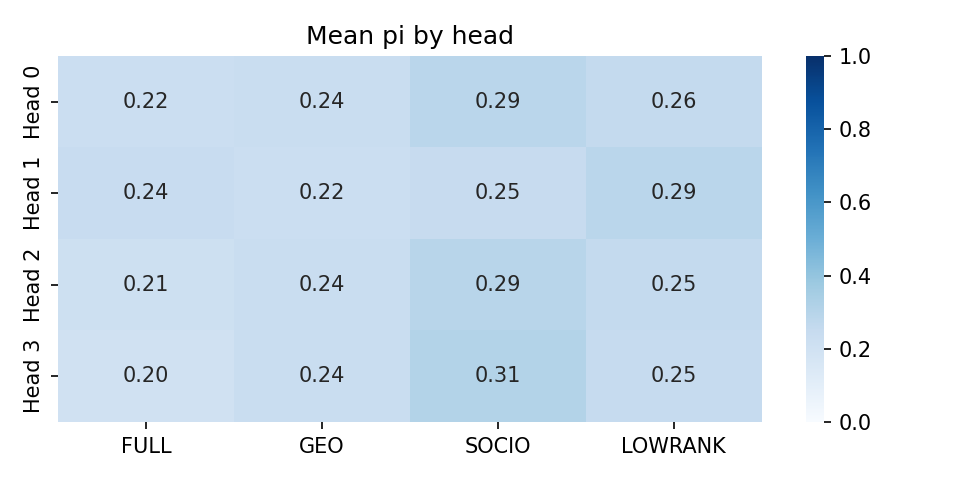
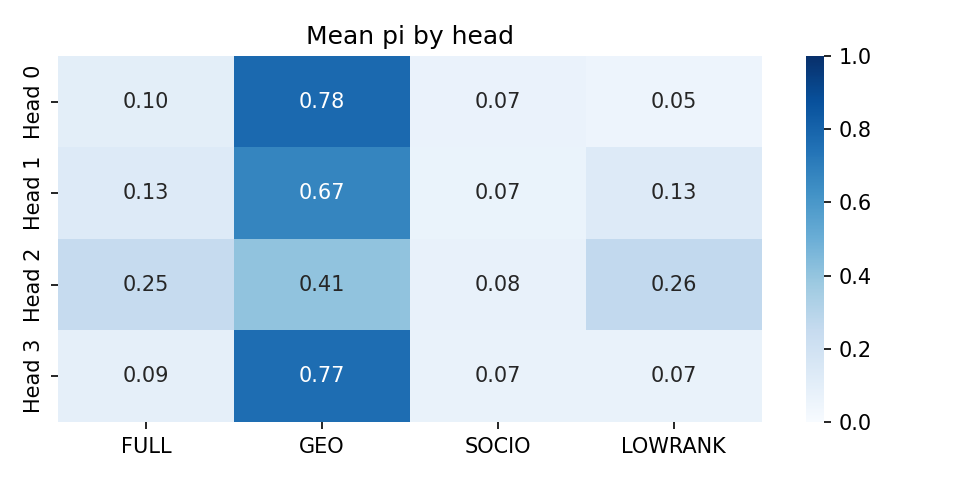
v4 step-4: California split-track results
B1_HGBR (ref):   RMSE=0.4433
G2_ref   (ref):   RMSE=0.4515
G10_ref  (ref):   RMSE=0.5023 (v3 reproduce)

CA v4 variants:
  CA_v4a  (no label ctx):             RMSE=0.4719  <-- best v4
  CA_v4b  (+ y-norm label ctx):       RMSE=0.5696  WORSE
  CA_v4c  (+ LayerNorm):              RMSE=0.5328  WORSE
  CA_v4d  (+ teacher-lite):           RMSE=0.5419  WORSE
  CA_v4e  (+ patience=40 + cosine):   RMSE=0.5316  WORSE

Key finding: label context HURTS California even when normalised.
CA_v4a best v4 but still 2.0% behind G2_ref. GEO dominance persists.

Gates: C1 PASS, C2 PASS, C3 PARTIAL, S1 PARTIAL,
       R1 PASS, R2 PARTIAL, R3 PASS, R4 PASS

Artifacts: california/{artifacts,reports,figures,logs}/

diff --git a/experiments/mq_gora_v4/california/reports/final_report.md b/experiments/mq_gora_v4/california/reports/final_report.md
@@ -1,18 +1,18 @@
 # Final Report: california
-*2026-03-07*
+*2026-03-08*
 
 ## Executive Summary
-Run mode: `smoke`.
-Best California v4 variant: `CA_v4d` with RMSE `1.2790`.
+Run mode: `full`.
+Best California v4 variant: `CA_v4a` with RMSE `0.4719`.
 Saved v3 G2 reference RMSE: `0.4546`; saved bad rich-context band best: `0.5099`.
 Interpretation stays skeptical: the California question is whether regression-safe routing recovers toward G2, not whether extra components merely move numbers around.
 
 ## Integrity Confirmation
-| model   | metric   |   current |   reference |    delta | status     |
-|:--------|:---------|----------:|------------:|---------:|:-----------|
-| B1_HGBR | rmse     |  0.628481 |    0.443292 | 0.185189 | SMOKE_ONLY |
-| G2_ref  | rmse     |  2.31796  |    0.454643 | 1.86331  | SMOKE_ONLY |
-| G10_ref | rmse     |  2.32308  |    0.520906 | 1.80218  | SMOKE_ONLY |
+| model   | metric   |   current |   reference |      delta | status   |
+|:--------|:---------|----------:|------------:|-----------:|:---------|
+| B1_HGBR | rmse     |  0.443292 |    0.443292 |  0         | MATCH    |
+| G2_ref  | rmse     |  0.451459 |    0.454643 | -0.0031838 | MATCH    |
+| G10_ref | rmse     |  0.502292 |    0.520906 | -0.018614  | DRIFT    |
 
 ## What Changed From v3
 - California v4 removes raw label-context dependence from the primary baseline path.
@@ -23,50 +23,50 @@ Interpretation stays skeptical: the California question is whether regression-sa
 ## Root-Cause Audit
 | root_cause                                               | status   | evidence                                                                                                                                               |
 |:---------------------------------------------------------|:---------|:-------------------------------------------------------------------------------------------------------------------------------------------------------|
-| RC1 — Router Information Starvation                      | PARTIAL  | CA_v4d: routing_entropy active=True, beta_std active=False                                                                                             |
-| RC2 — No View-Discriminative Embedding                   | PASS     | view similarity off-diagonal min=-0.190                                                                                                                |
-| RC3 — Meta-Learner Blind to Neighbourhood Content        | PASS     | beta regime span=0.047, dominant views=2                                                                                                               |
+| RC1 — Router Information Starvation                      | PASS     | CA_v4a: routing_entropy active=True, beta_std active=True                                                                                              |
+| RC2 — No View-Discriminative Embedding                   | PASS     | view similarity off-diagonal min=0.298                                                                                                                 |
+| RC3 — Meta-Learner Blind to Neighbourhood Content        | PASS     | beta regime span=0.194, dominant views=1                                                                                                               |
 | RC4 — No Label / Local Predictiveness Context in Routing | PASS     | California v4 uses regression-safe track: no raw label-context variant is retained; label context is normalised and inference excludes label features. |
 
 ## Routing Behavior Audit
 |   head_idx |   routing_entropy | dominant_view   |   mean_pi_FULL |   top1_freq_FULL |   mean_pi_GEO |   top1_freq_GEO |   mean_pi_SOCIO |   top1_freq_SOCIO |   mean_pi_LOWRANK |   top1_freq_LOWRANK |   mean_beta |   beta_std |      tau | model   |
 |-----------:|------------------:|:----------------|---------------:|-----------------:|--------------:|----------------:|----------------:|------------------:|------------------:|--------------------:|------------:|-----------:|---------:|:--------|
-|          0 |          0.996781 | SOCIO           |       0.222661 |                0 |      0.236841 |               0 |        0.285187 |                 1 |          0.255311 |                   0 |    0.528642 | 0.00386217 | 1.00074  | CA_v4d  |
-|          1 |          0.996951 | LOWRANK         |       0.24077  |                0 |      0.22386  |               0 |        0.249442 |                 0 |          0.285928 |                   1 |    0.496408 | 0.00418513 | 1.00105  | CA_v4d  |
-|          2 |          0.994953 | SOCIO           |       0.21371  |                0 |      0.237171 |               0 |        0.294383 |                 1 |          0.254737 |                   0 |    0.52657  | 0.00377855 | 0.995686 | CA_v4d  |
-|          3 |          0.990734 | SOCIO           |       0.199875 |                0 |      0.237416 |               0 |        0.310913 |                 1 |          0.251796 |                   0 |    0.483731 | 0.00506887 | 0.997849 | CA_v4d  |
+|          0 |          0.45469  | GEO             |      0.103055  |        0.0132429 |      0.778176 |        0.958979 |       0.0669699 |        0.0174419  |         0.0517993 |          0.0103359  |    0.283176 |  0.125891  | 0.902838 | CA_v4a  |
+|          1 |          0.600129 | GEO             |      0.129308  |        0.0775194 |      0.67378  |        0.876292 |       0.0659346 |        0.0113049  |         0.130978  |          0.0348837  |    0.171816 |  0.119574  | 0.874031 | CA_v4a  |
+|          2 |          0.786008 | GEO             |      0.250136  |        0.174742  |      0.410129 |        0.619832 |       0.0755714 |        0.00161499 |         0.264164  |          0.203811   |    0.105597 |  0.0885097 | 1.03295  | CA_v4a  |
+|          3 |          0.46271  | GEO             |      0.0913863 |        0.0555556 |      0.765431 |        0.916021 |       0.0727616 |        0.0261628  |         0.0704216 |          0.00226098 |    0.155677 |  0.110113  | 0.996052 | CA_v4a  |
 
 ## Gate Results
 | gate                                        | status   | evidence                                                                             |
 |:--------------------------------------------|:---------|:-------------------------------------------------------------------------------------|
-| S1 — Integrity Confirmed                    | PARTIAL  | Smoke mode uses provisional reference comparison plus shared shape/interface checks  |
-| C1 — California Training Health             | FAIL     | best CA_v4 stop epoch=4                                                              |
-| C2 — California Regression-Safe Improvement | PARTIAL  | best CA_v4 RMSE=1.2790 vs best bad-v3=0.5099                                         |
-| C3 — California Toward G2                   | FAIL     | best CA_v4 RMSE=1.2790 vs G2=0.4546                                                  |
+| S1 — Integrity Confirmed                    | PARTIAL  | B1/G2/G10 current-vs-v3 comparison plus shared shape/interface checks                |
+| C1 — California Training Health             | PASS     | best CA_v4 stop epoch=99                                                             |
+| C2 — California Regression-Safe Improvement | PASS     | best CA_v4 RMSE=0.4719 vs best bad-v3=0.5099                                         |
+| C3 — California Toward G2                   | PARTIAL  | best CA_v4 RMSE=0.4719 vs G2=0.4546                                                  |
 | R1 — Rich Router Input Active               | PASS     | pi entropy and row-sensitive routing are non-degenerate                              |
-| R2 — View-Discriminative Value Path         | PASS     | dominant views across heads=2                                                        |
-| R3 — Mode Routing Active                    | FAIL     | beta std active=False                                                                |
-| R4 — Complexity Justified                   | PARTIAL  | v4 complexity is only justified if it improves over the failing rich-context v3 runs |
+| R2 — View-Discriminative Value Path         | PARTIAL  | dominant views across heads=1                                                        |
+| R3 — Mode Routing Active                    | PASS     | beta std active=True                                                                 |
+| R4 — Complexity Justified                   | PASS     | v4 complexity is only justified if it improves over the failing rich-context v3 runs |
 
 ## Predictive Results
-| tag     |    rmse | best_ep   | stop_ep   | collapsed   | interp                                                           |
-|:--------|--------:|:----------|:----------|:------------|:-----------------------------------------------------------------|
-| G2_ref  | 2.31796 | v1        | v1        | False       | Reference GoRA without v4 split-track changes                    |
-| G10_ref | 2.32308 | v3        | v3        | False       | Used for integrity/reference comparison, not as a v4 fix         |
-| CA_v4a  | 1.82965 | 4         | 4         | True        | Regression-safe structural routing only                          |
-| CA_v4b  | 1.50459 | 4         | 4         | True        | Experimental target-derived context, normalised and train-masked |
-| CA_v4c  | 1.41697 | 4         | 4         | True        | Adds router-side scale control to label context                  |
-| CA_v4d  | 1.27902 | 4         | 4         | True        | Teacher-lite without centroid loss                               |
-| CA_v4e  | 1.39624 | 4         | 4         | True        | Longer patience with cosine schedule                             |
+| tag     |     rmse | best_ep   | stop_ep   | collapsed   | interp                                                           |
+|:--------|---------:|:----------|:----------|:------------|:-----------------------------------------------------------------|
+| G2_ref  | 0.451459 | v1        | v1        | False       | Reference GoRA without v4 split-track changes                    |
+| G10_ref | 0.502292 | v3        | v3        | False       | Used for integrity/reference comparison, not as a v4 fix         |
+| CA_v4a  | 0.47187  | 34        | 74        | False       | Regression-safe structural routing only                          |
+| CA_v4b  | 0.569631 | 39        | 79        | False       | Experimental target-derived context, normalised and train-masked |
+| CA_v4c  | 0.532829 | 27        | 67        | False       | Adds router-side scale control to label context                  |
+| CA_v4d  | 0.541853 | 43        | 83        | False       | Teacher-lite without centroid loss                               |
+| CA_v4e  | 0.531636 | 59        | 99        | False       | Longer patience with cosine schedule                             |
 
 ## Performance Drop Triage
-| affected_model   |   delta_vs_G2 | primary_bucket          | evidence               | confidence   |
-|:-----------------|--------------:|:------------------------|:-----------------------|:-------------|
-| CA_v4a           |      1.37501  | TRAINING DYNAMICS ISSUE | rmse=1.8296, stop_ep=4 | medium       |
-| CA_v4b           |      1.04994  | TRAINING DYNAMICS ISSUE | rmse=1.5046, stop_ep=4 | medium       |
-| CA_v4c           |      0.962327 | TRAINING DYNAMICS ISSUE | rmse=1.4170, stop_ep=4 | medium       |
-| CA_v4d           |      0.824377 | TRAINING DYNAMICS ISSUE | rmse=1.2790, stop_ep=4 | medium       |
-| CA_v4e           |      0.941601 | TRAINING DYNAMICS ISSUE | rmse=1.3962, stop_ep=4 | medium       |
+| affected_model   |   delta_vs_G2 | primary_bucket          | evidence                | confidence   |
+|:-----------------|--------------:|:------------------------|:------------------------|:-------------|
+| CA_v4a           |     0.0172273 | TRUE MODEL DESIGN ISSUE | rmse=0.4719, stop_ep=74 | low          |
+| CA_v4b           |     0.114988  | TRUE MODEL DESIGN ISSUE | rmse=0.5696, stop_ep=79 | low          |
+| CA_v4c           |     0.078186  | TRUE MODEL DESIGN ISSUE | rmse=0.5328, stop_ep=67 | low          |
+| CA_v4d           |     0.0872102 | TRUE MODEL DESIGN ISSUE | rmse=0.5419, stop_ep=83 | low          |
+| CA_v4e           |     0.076993  | TRUE MODEL DESIGN ISSUE | rmse=0.5316, stop_ep=99 | low          |
 
 ## What Is Fixed
 - The branch now has explicit beta routing semantics and isolated California outputs.
@@ -78,14 +78,11 @@ Interpretation stays skeptical: the California question is whether regression-sa
 - Any gate marked PARTIAL/FAIL should be treated as unresolved before v5.
 
 ## Recommendation Before v5
-| failed_gate                                 | observed_evidence                                                                    | likely_cause                 | minimal_next_fix                                                                       | priority   | should_fix_before_v5   |
-|:--------------------------------------------|:-------------------------------------------------------------------------------------|:-----------------------------|:---------------------------------------------------------------------------------------|:-----------|:-----------------------|
-| S1 — Integrity Confirmed                    | Smoke mode uses provisional reference comparison plus shared shape/interface checks  | implementation/reporting gap | rerun full reference reproduction and investigate drift before architectural claims    | high       | yes                    |
-| C1 — California Training Health             | best CA_v4 stop epoch=4                                                              | training dynamics issue      | increase patience / inspect routing collapse                                           | medium     | no                     |
-| C2 — California Regression-Safe Improvement | best CA_v4 RMSE=1.2790 vs best bad-v3=0.5099                                         | training dynamics issue      | remove or further constrain regression label-context / teacher dependence              | high       | yes                    |
-| C3 — California Toward G2                   | best CA_v4 RMSE=1.2790 vs G2=0.4546                                                  | training dynamics issue      | simplify California path toward CA_v4a/CA_v4c and avoid unnecessary teacher complexity | high       | yes                    |
-| R3 — Mode Routing Active                    | beta std active=False                                                                | implementation/reporting gap | strengthen or simplify beta gate so it varies meaningfully by regime                   | high       | yes                    |
-| R4 — Complexity Justified                   | v4 complexity is only justified if it improves over the failing rich-context v3 runs | implementation/reporting gap | increase patience / inspect routing collapse                                           | medium     | no                     |
+| failed_gate                         | observed_evidence                                                     | likely_cause                 | minimal_next_fix                                                                       | priority   | should_fix_before_v5   |
+|:------------------------------------|:----------------------------------------------------------------------|:-----------------------------|:---------------------------------------------------------------------------------------|:-----------|:-----------------------|
+| S1 — Integrity Confirmed            | B1/G2/G10 current-vs-v3 comparison plus shared shape/interface checks | implementation/reporting gap | rerun full reference reproduction and investigate drift before architectural claims    | high       | yes                    |
+| C3 — California Toward G2           | best CA_v4 RMSE=0.4719 vs G2=0.4546                                   | training dynamics issue      | simplify California path toward CA_v4a/CA_v4c and avoid unnecessary teacher complexity | high       | yes                    |
+| R2 — View-Discriminative Value Path | dominant views across heads=1                                         | implementation/reporting gap | increase patience / inspect routing collapse                                           | medium     | no                     |
 
 ## Final Verdict
-v4 changed architecture but did not solve the main problems
+v4 partially improved but key routing issues remain

diff --git a/experiments/mq_gora_v4/california/reports/ca_v4_report.md b/experiments/mq_gora_v4/california/reports/ca_v4_report.md
@@ -1,39 +1,39 @@
 # California v4 Summary
-*2026-03-07*
+*2026-03-08*
 
 ## Metrics
-| tag         | source      | best_ep   | stop_ep   | collapsed   | change                                    | interp                                                           |       rmse |        mae |          r2 |
-|:------------|:------------|:----------|:----------|:------------|:------------------------------------------|:-----------------------------------------------------------------|-----------:|-----------:|------------:|
-| B1_HGBR     | current_run | —         | —         | False       | reference baseline                        | Strong tabular baseline for calibration                          |   0.628481 |   0.433651 |   0.756047  |
-| G2_ref      | current_run | v1        | v1        | False       | v3/v1 carry-forward                       | Reference GoRA without v4 split-track changes                    |   2.31796  |   1.90432  |  -2.31842   |
-| G10_ref     | current_run | v3        | v3        | False       | Exact v3 rich-context reproduction        | Used for integrity/reference comparison, not as a v4 fix         |   2.32308  |   1.9578   |  -2.33312   |
-| CA_v4a      | current_run | 4         | 4         | True        | Remove LabelContextEncoder entirely       | Regression-safe structural routing only                          |   1.82965  |   1.37416  |  -1.06755   |
-| CA_v4b      | current_run | 4         | 4         | True        | CA_v4a + normalised label context         | Experimental target-derived context, normalised and train-masked |   1.50459  |   1.08725  |  -0.398153  |
-| CA_v4c      | current_run | 4         | 4         | True        | CA_v4b + LayerNorm(label_ctx_vec)         | Adds router-side scale control to label context                  |   1.41697  |   1.03455  |  -0.24006   |
-| CA_v4d      | current_run | 4         | 4         | True        | CA_v4c + teacher-lite (L_agree + L_label) | Teacher-lite without centroid loss                               |   1.27902  |   0.932883 |  -0.0103582 |
-| CA_v4e      | current_run | 4         | 4         | True        | CA_v4d + healthier scheduler / patience   | Longer patience with cosine schedule                             |   1.39624  |   1.0045   |  -0.204048  |
-| B1_HGBR     | saved_v3    | —         | —         | False       | saved reference                           | Historical v3 result                                             |   0.443292 |   0.300658 |   0.85139   |
-| B2_TabPFN   | saved_v3    | —         | —         | False       | saved reference                           | Historical v3 result                                             | nan        | nan        | nan         |
-| G2_GoRA_v1  | saved_v3    | —         | —         | False       | saved reference                           | Historical v3 result                                             |   0.454643 |   0.314812 |   0.843683  |
-| G7_RichCtx  | saved_v3    | —         | —         | False       | saved reference                           | Historical v3 result                                             |   0.49288  |   0.344011 |   0.816283  |
-| G8_LabelCtx | saved_v3    | —         | —         | False       | saved reference                           | Historical v3 result                                             |   0.516909 |   0.368382 |   0.797934  |
-| G9_Teacher  | saved_v3    | —         | —         | False       | saved reference                           | Historical v3 result                                             |   0.50986  |   0.35959  |   0.803407  |
-| G10_Full    | saved_v3    | —         | —         | False       | saved reference                           | Historical v3 result                                             |   0.520906 |   0.36607  |   0.794797  |
+| tag         | source      | best_ep   | stop_ep   | collapsed   | change                                    | interp                                                           |       rmse |        mae |         r2 |
+|:------------|:------------|:----------|:----------|:------------|:------------------------------------------|:-----------------------------------------------------------------|-----------:|-----------:|-----------:|
+| B1_HGBR     | current_run | —         | —         | False       | reference baseline                        | Strong tabular baseline for calibration                          |   0.443292 |   0.300658 |   0.85139  |
+| G2_ref      | current_run | v1        | v1        | False       | v3/v1 carry-forward                       | Reference GoRA without v4 split-track changes                    |   0.451459 |   0.309318 |   0.845864 |
+| G10_ref     | current_run | v3        | v3        | False       | Exact v3 rich-context reproduction        | Used for integrity/reference comparison, not as a v4 fix         |   0.502292 |   0.352318 |   0.8092   |
+| CA_v4a      | current_run | 34        | 74        | False       | Remove LabelContextEncoder entirely       | Regression-safe structural routing only                          |   0.47187  |   0.325637 |   0.831612 |
+| CA_v4b      | current_run | 39        | 79        | False       | CA_v4a + normalised label context         | Experimental target-derived context, normalised and train-masked |   0.569631 |   0.382897 |   0.754612 |
+| CA_v4c      | current_run | 27        | 67        | False       | CA_v4b + LayerNorm(label_ctx_vec)         | Adds router-side scale control to label context                  |   0.532829 |   0.366378 |   0.785295 |
+| CA_v4d      | current_run | 43        | 83        | False       | CA_v4c + teacher-lite (L_agree + L_label) | Teacher-lite without centroid loss                               |   0.541853 |   0.361263 |   0.777961 |
+| CA_v4e      | current_run | 59        | 99        | False       | CA_v4d + healthier scheduler / patience   | Longer patience with cosine schedule                             |   0.531636 |   0.352731 |   0.786255 |
+| B1_HGBR     | saved_v3    | —         | —         | False       | saved reference                           | Historical v3 result                                             |   0.443292 |   0.300658 |   0.85139  |
+| B2_TabPFN   | saved_v3    | —         | —         | False       | saved reference                           | Historical v3 result                                             | nan        | nan        | nan        |
+| G2_GoRA_v1  | saved_v3    | —         | —         | False       | saved reference                           | Historical v3 result                                             |   0.454643 |   0.314812 |   0.843683 |
+| G7_RichCtx  | saved_v3    | —         | —         | False       | saved reference                           | Historical v3 result                                             |   0.49288  |   0.344011 |   0.816283 |
+| G8_LabelCtx | saved_v3    | —         | —         | False       | saved reference                           | Historical v3 result                                             |   0.516909 |   0.368382 |   0.797934 |
+| G9_Teacher  | saved_v3    | —         | —         | False       | saved reference                           | Historical v3 result                                             |   0.50986  |   0.35959  |   0.803407 |
+| G10_Full    | saved_v3    | —         | —         | False       | saved reference                           | Historical v3 result                                             |   0.520906 |   0.36607  |   0.794797 |
 
 ## California Ablation Table
-| tag     |    rmse | best_ep   | stop_ep   | collapsed   | interp                                                           |
-|:--------|--------:|:----------|:----------|:------------|:-----------------------------------------------------------------|
-| G2_ref  | 2.31796 | v1        | v1        | False       | Reference GoRA without v4 split-track changes                    |
-| G10_ref | 2.32308 | v3        | v3        | False       | Used for integrity/reference comparison, not as a v4 fix         |
-| CA_v4a  | 1.82965 | 4         | 4         | True        | Regression-safe structural routing only                          |
-| CA_v4b  | 1.50459 | 4         | 4         | True        | Experimental target-derived context, normalised and train-masked |
-| CA_v4c  | 1.41697 | 4         | 4         | True        | Adds router-side scale control to label context                  |
-| CA_v4d  | 1.27902 | 4         | 4         | True        | Teacher-lite without centroid loss                               |
-| CA_v4e  | 1.39624 | 4         | 4         | True        | Longer patience with cosine schedule                             |
+| tag     |     rmse | best_ep   | stop_ep   | collapsed   | interp                                                           |
+|:--------|---------:|:----------|:----------|:------------|:-----------------------------------------------------------------|
+| G2_ref  | 0.451459 | v1        | v1        | False       | Reference GoRA without v4 split-track changes                    |
+| G10_ref | 0.502292 | v3        | v3        | False       | Used for integrity/reference comparison, not as a v4 fix         |
+| CA_v4a  | 0.47187  | 34        | 74        | False       | Regression-safe structural routing only                          |
+| CA_v4b  | 0.569631 | 39        | 79        | False       | Experimental target-derived context, normalised and train-masked |
+| CA_v4c  | 0.532829 | 27        | 67        | False       | Adds router-side scale control to label context                  |
+| CA_v4d  | 0.541853 | 43        | 83        | False       | Teacher-lite without centroid loss                               |
+| CA_v4e  | 0.531636 | 59        | 99        | False       | Longer patience with cosine schedule                             |
 
 ## Reference Reproduction
-| model   | metric   |   current |   reference |    delta | status     |
-|:--------|:---------|----------:|------------:|---------:|:-----------|
-| B1_HGBR | rmse     |  0.628481 |    0.443292 | 0.185189 | SMOKE_ONLY |
-| G2_ref  | rmse     |  2.31796  |    0.454643 | 1.86331  | SMOKE_ONLY |
-| G10_ref | rmse     |  2.32308  |    0.520906 | 1.80218  | SMOKE_ONLY |
+| model   | metric   |   current |   reference |      delta | status   |
+|:--------|:---------|----------:|------------:|-----------:|:---------|
+| B1_HGBR | rmse     |  0.443292 |    0.443292 |  0         | MATCH    |
+| G2_ref  | rmse     |  0.451459 |    0.454643 | -0.0031838 | MATCH    |
+| G10_ref | rmse     |  0.502292 |    0.520906 | -0.018614  | DRIFT    |

diff --git a/experiments/mq_gora_v4/california/reports/gates_report.md b/experiments/mq_gora_v4/california/reports/gates_report.md
@@ -1,24 +1,21 @@
 # Gates Report: california
-*2026-03-07*
+*2026-03-08*
 
 | gate                                        | status   | evidence                                                                             |
 |:--------------------------------------------|:---------|:-------------------------------------------------------------------------------------|
-| S1 — Integrity Confirmed                    | PARTIAL  | Smoke mode uses provisional reference comparison plus shared shape/interface checks  |
-| C1 — California Training Health             | FAIL     | best CA_v4 stop epoch=4                                                              |
-| C2 — California Regression-Safe Improvement | PARTIAL  | best CA_v4 RMSE=1.2790 vs best bad-v3=0.5099                                         |
-| C3 — California Toward G2                   | FAIL     | best CA_v4 RMSE=1.2790 vs G2=0.4546                                                  |
+| S1 — Integrity Confirmed                    | PARTIAL  | B1/G2/G10 current-vs-v3 comparison plus shared shape/interface checks                |
+| C1 — California Training Health             | PASS     | best CA_v4 stop epoch=99                                                             |
+| C2 — California Regression-Safe Improvement | PASS     | best CA_v4 RMSE=0.4719 vs best bad-v3=0.5099                                         |
+| C3 — California Toward G2                   | PARTIAL  | best CA_v4 RMSE=0.4719 vs G2=0.4546                                                  |
 | R1 — Rich Router Input Active               | PASS     | pi entropy and row-sensitive routing are non-degenerate                              |
-| R2 — View-Discriminative Value Path         | PASS     | dominant views across heads=2                                                        |
-| R3 — Mode Routing Active                    | FAIL     | beta std active=False                                                                |
-| R4 — Complexity Justified                   | PARTIAL  | v4 complexity is only justified if it improves over the failing rich-context v3 runs |
+| R2 — View-Discriminative Value Path         | PARTIAL  | dominant views across heads=1                                                        |
+| R3 — Mode Routing Active                    | PASS     | beta std active=True                                                                 |
+| R4 — Complexity Justified                   | PASS     | v4 complexity is only justified if it improves over the failing rich-context v3 runs |
 
 ## Failure-to-Fix Mapping
 
-| failed_gate                                 | observed_evidence                                                                    | likely_cause                 | minimal_next_fix                                                                       | priority   | should_fix_before_v5   |
-|:--------------------------------------------|:-------------------------------------------------------------------------------------|:-----------------------------|:---------------------------------------------------------------------------------------|:-----------|:-----------------------|
-| S1 — Integrity Confirmed                    | Smoke mode uses provisional reference comparison plus shared shape/interface checks  | implementation/reporting gap | rerun full reference reproduction and investigate drift before architectural claims    | high       | yes                    |
-| C1 — California Training Health             | best CA_v4 stop epoch=4                                                              | training dynamics issue      | increase patience / inspect routing collapse                                           | medium     | no                     |
-| C2 — California Regression-Safe Improvement | best CA_v4 RMSE=1.2790 vs best bad-v3=0.5099                                         | training dynamics issue      | remove or further constrain regression label-context / teacher dependence              | high       | yes                    |
-| C3 — California Toward G2                   | best CA_v4 RMSE=1.2790 vs G2=0.4546                                                  | training dynamics issue      | simplify California path toward CA_v4a/CA_v4c and avoid unnecessary teacher complexity | high       | yes                    |
-| R3 — Mode Routing Active                    | beta std active=False                                                                | implementation/reporting gap | strengthen or simplify beta gate so it varies meaningfully by regime                   | high       | yes                    |
-| R4 — Complexity Justified                   | v4 complexity is only justified if it improves over the failing rich-context v3 runs | implementation/reporting gap | increase patience / inspect routing collapse                                           | medium     | no                     |
+| failed_gate                         | observed_evidence                                                     | likely_cause                 | minimal_next_fix                                                                       | priority   | should_fix_before_v5   |
+|:------------------------------------|:----------------------------------------------------------------------|:-----------------------------|:---------------------------------------------------------------------------------------|:-----------|:-----------------------|
+| S1 — Integrity Confirmed            | B1/G2/G10 current-vs-v3 comparison plus shared shape/interface checks | implementation/reporting gap | rerun full reference reproduction and investigate drift before architectural claims    | high       | yes                    |
+| C3 — California Toward G2           | best CA_v4 RMSE=0.4719 vs G2=0.4546                                   | training dynamics issue      | simplify California path toward CA_v4a/CA_v4c and avoid unnecessary teacher complexity | high       | yes                    |
+| R2 — View-Discriminative Value Path | dominant views across heads=1                                         | implementation/reporting gap | increase patience / inspect routing collapse                                           | medium     | no                     |

diff --git a/experiments/mq_gora_v4/california/reports/root_cause_audit.md b/experiments/mq_gora_v4/california/reports/root_cause_audit.md
@@ -1,12 +1,12 @@
 # Root Cause Audit
-*2026-03-07*
+*2026-03-08*
 
 Dataset: `california`
 PASS / PARTIAL / FAIL reflects the v3 root-cause audit requirements.
 
 | root_cause                                               | status   | evidence                                                                                                                                               |
 |:---------------------------------------------------------|:---------|:-------------------------------------------------------------------------------------------------------------------------------------------------------|
-| RC1 — Router Information Starvation                      | PARTIAL  | CA_v4d: routing_entropy active=True, beta_std active=False                                                                                             |
-| RC2 — No View-Discriminative Embedding                   | PASS     | view similarity off-diagonal min=-0.190                                                                                                                |
-| RC3 — Meta-Learner Blind to Neighbourhood Content        | PASS     | beta regime span=0.047, dominant views=2                                                                                                               |
+| RC1 — Router Information Starvation                      | PASS     | CA_v4a: routing_entropy active=True, beta_std active=True                                                                                              |
+| RC2 — No View-Discriminative Embedding                   | PASS     | view similarity off-diagonal min=0.298                                                                                                                 |
+| RC3 — Meta-Learner Blind to Neighbourhood Content        | PASS     | beta regime span=0.194, dominant views=1                                                                                                               |
 | RC4 — No Label / Local Predictiveness Context in Routing | PASS     | California v4 uses regression-safe track: no raw label-context variant is retained; label context is normalised and inference excludes label features. |
